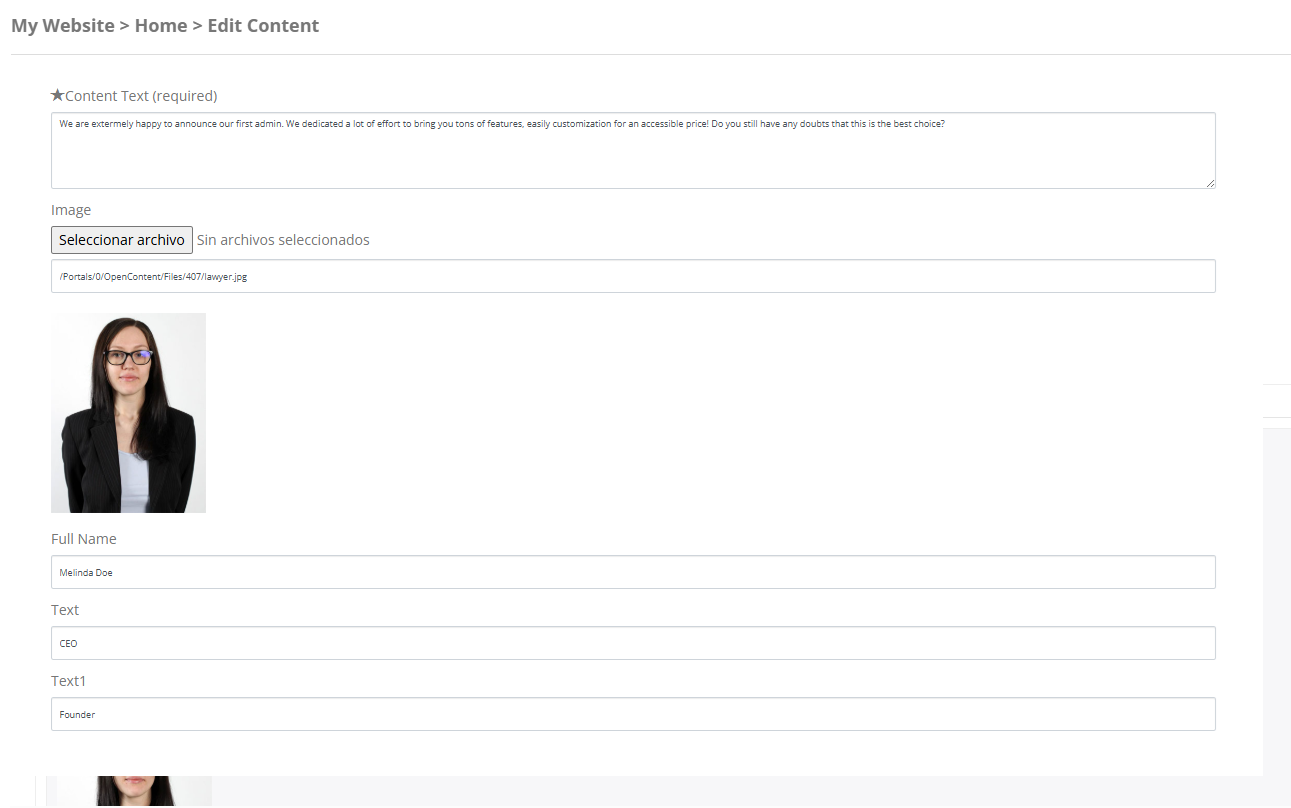
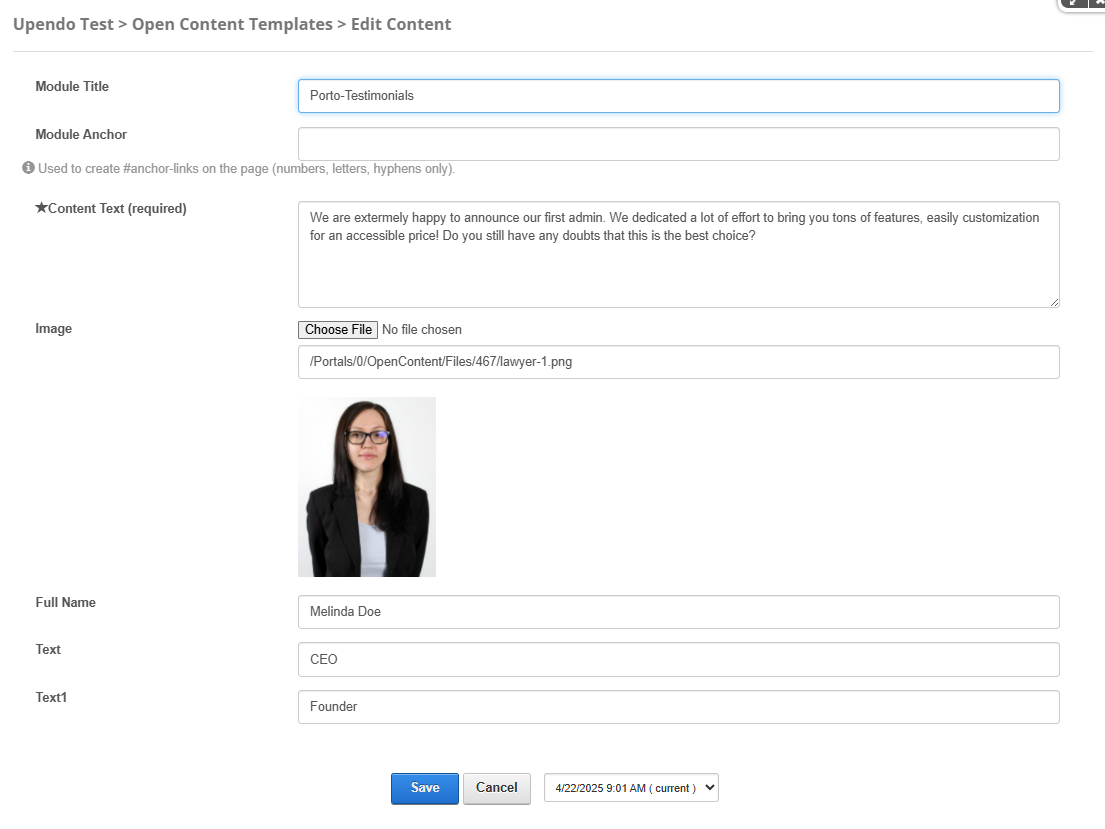
Update Porto-Testimonials docs

diff --git a/Porto-Testimonials/Porto-Testimonials.html b/Porto-Testimonials/Porto-Testimonials.html
@@ -135,10 +135,12 @@
 
         .component-image {
             width: 100%;
-            max-width: 900px;
-            margin: 10px 0;
             border-radius: 10px;
             box-shadow: 0 4px 8px rgba(0, 0, 0, 0.1);
+        }
+        code {
+            font-size: large;
+            color: #6d5a2c;
         }
     </style>
 </head>
@@ -185,6 +187,18 @@
                 </tr>
             </thead>
             <tbody>
+                <tr>
+                    <td>Module Title</td>
+                    <td>String</td>
+                    <td>Used to define the title of the module. This title is displayed in the DNN administration interface to
+                        help identify the module.</td>
+                </tr>
+                <tr>
+                    <td>Module Anchor</td>
+                    <td>String</td>
+                    <td>Used to create anchor links on the page. This allows users to link directly to the module using a unique
+                        identifier. Only letters, numbers, and hyphens are allowed.</td>
+                </tr>
                 <tr>
                     <td>Content</td>
                     <td>String</td>
